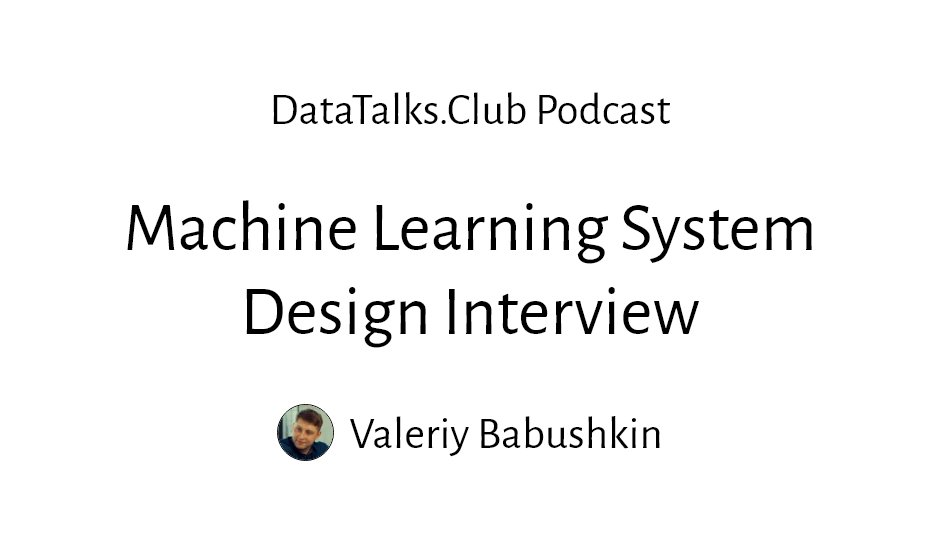
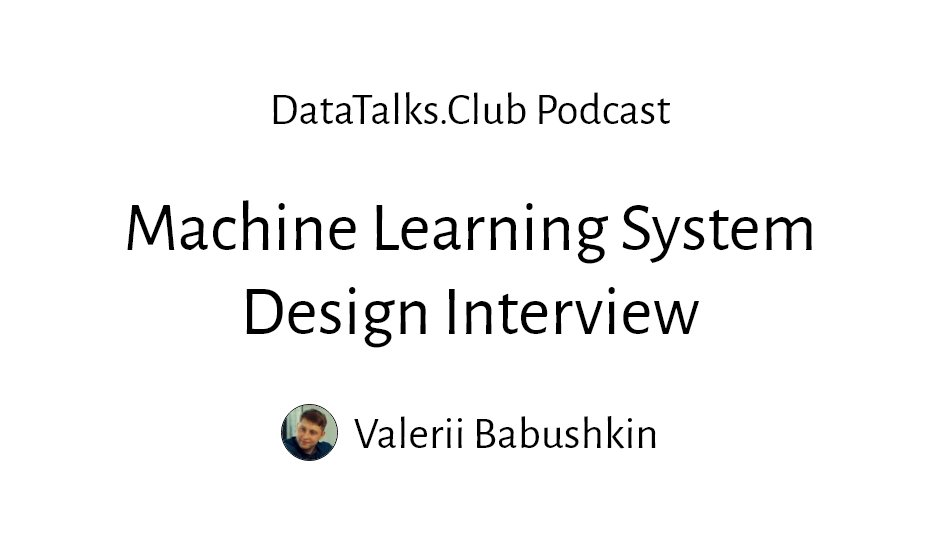
update

Changed region(s): [[0.2777, 0.7109, 0.7096, 0.8345]]

diff --git a/_people/valeriybabushkin.md b/_people/valeriybabushkin.md
@@ -1,6 +1,6 @@
 ---
 short: valeriybabushkin
-title: "Valeriy Babushkin"
+title: "Valerii Babushkin"
 picture: "images/authors/valeriybabushkin.jpg"
 github: VENHEADs
 
